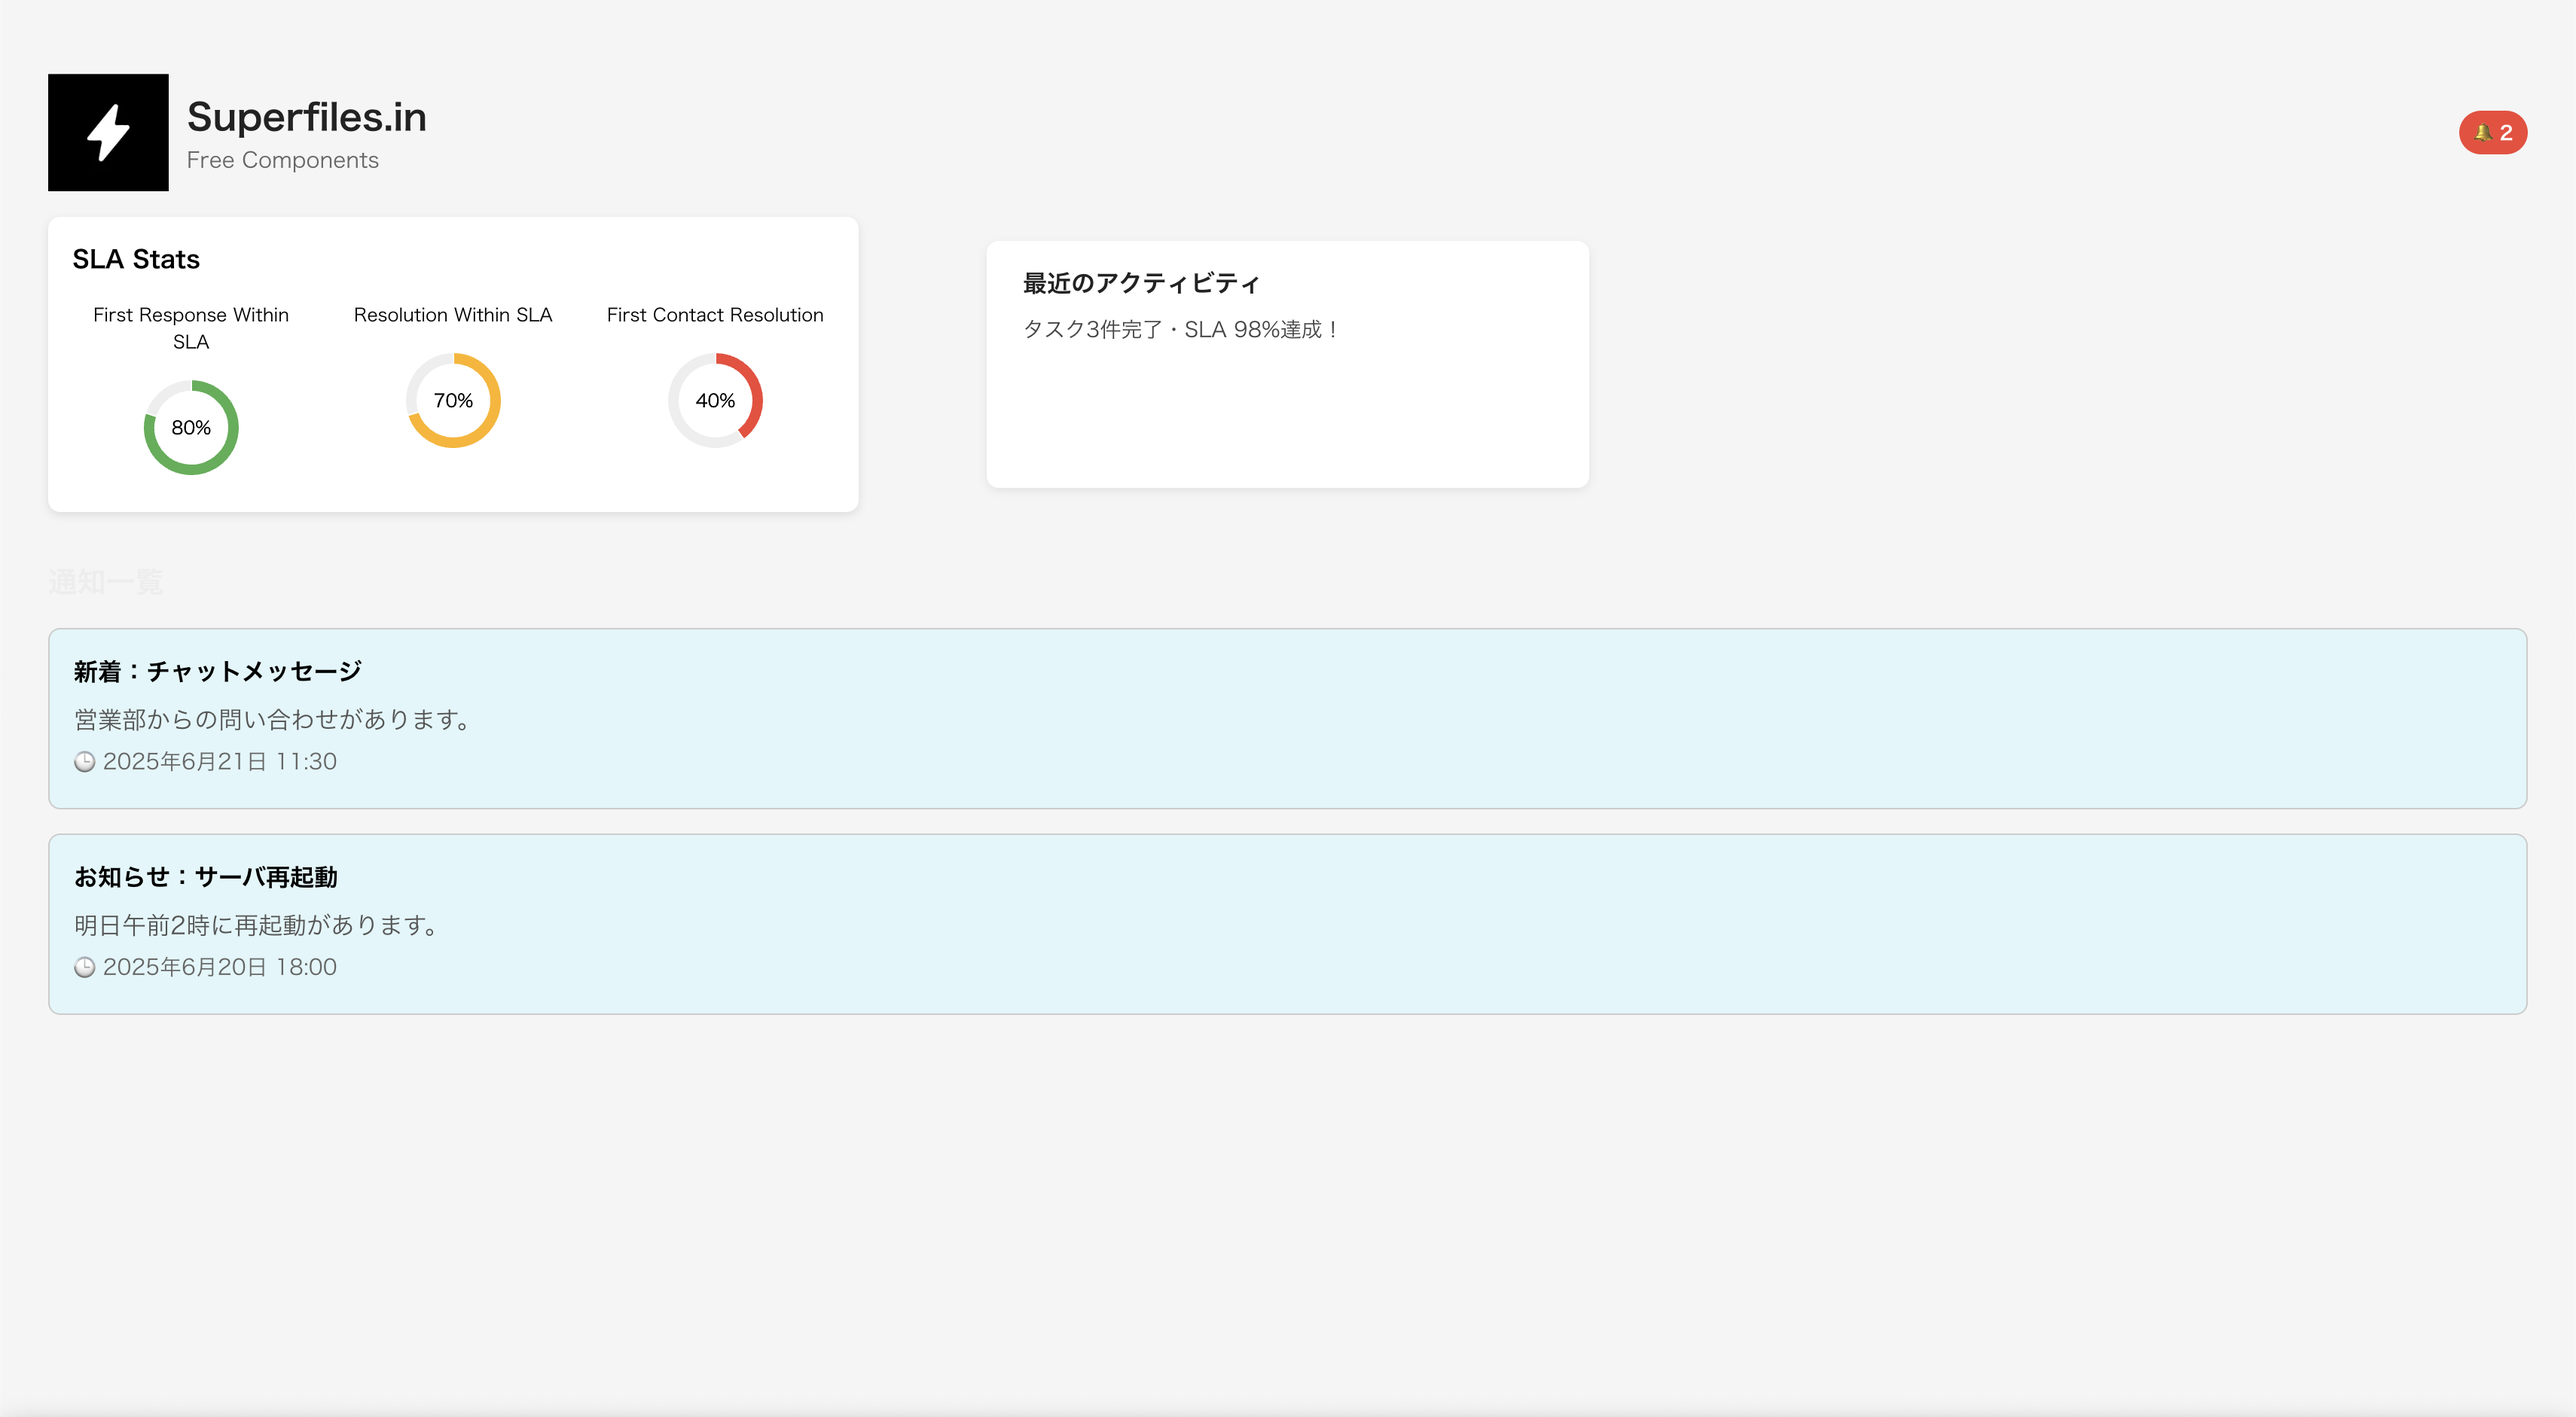
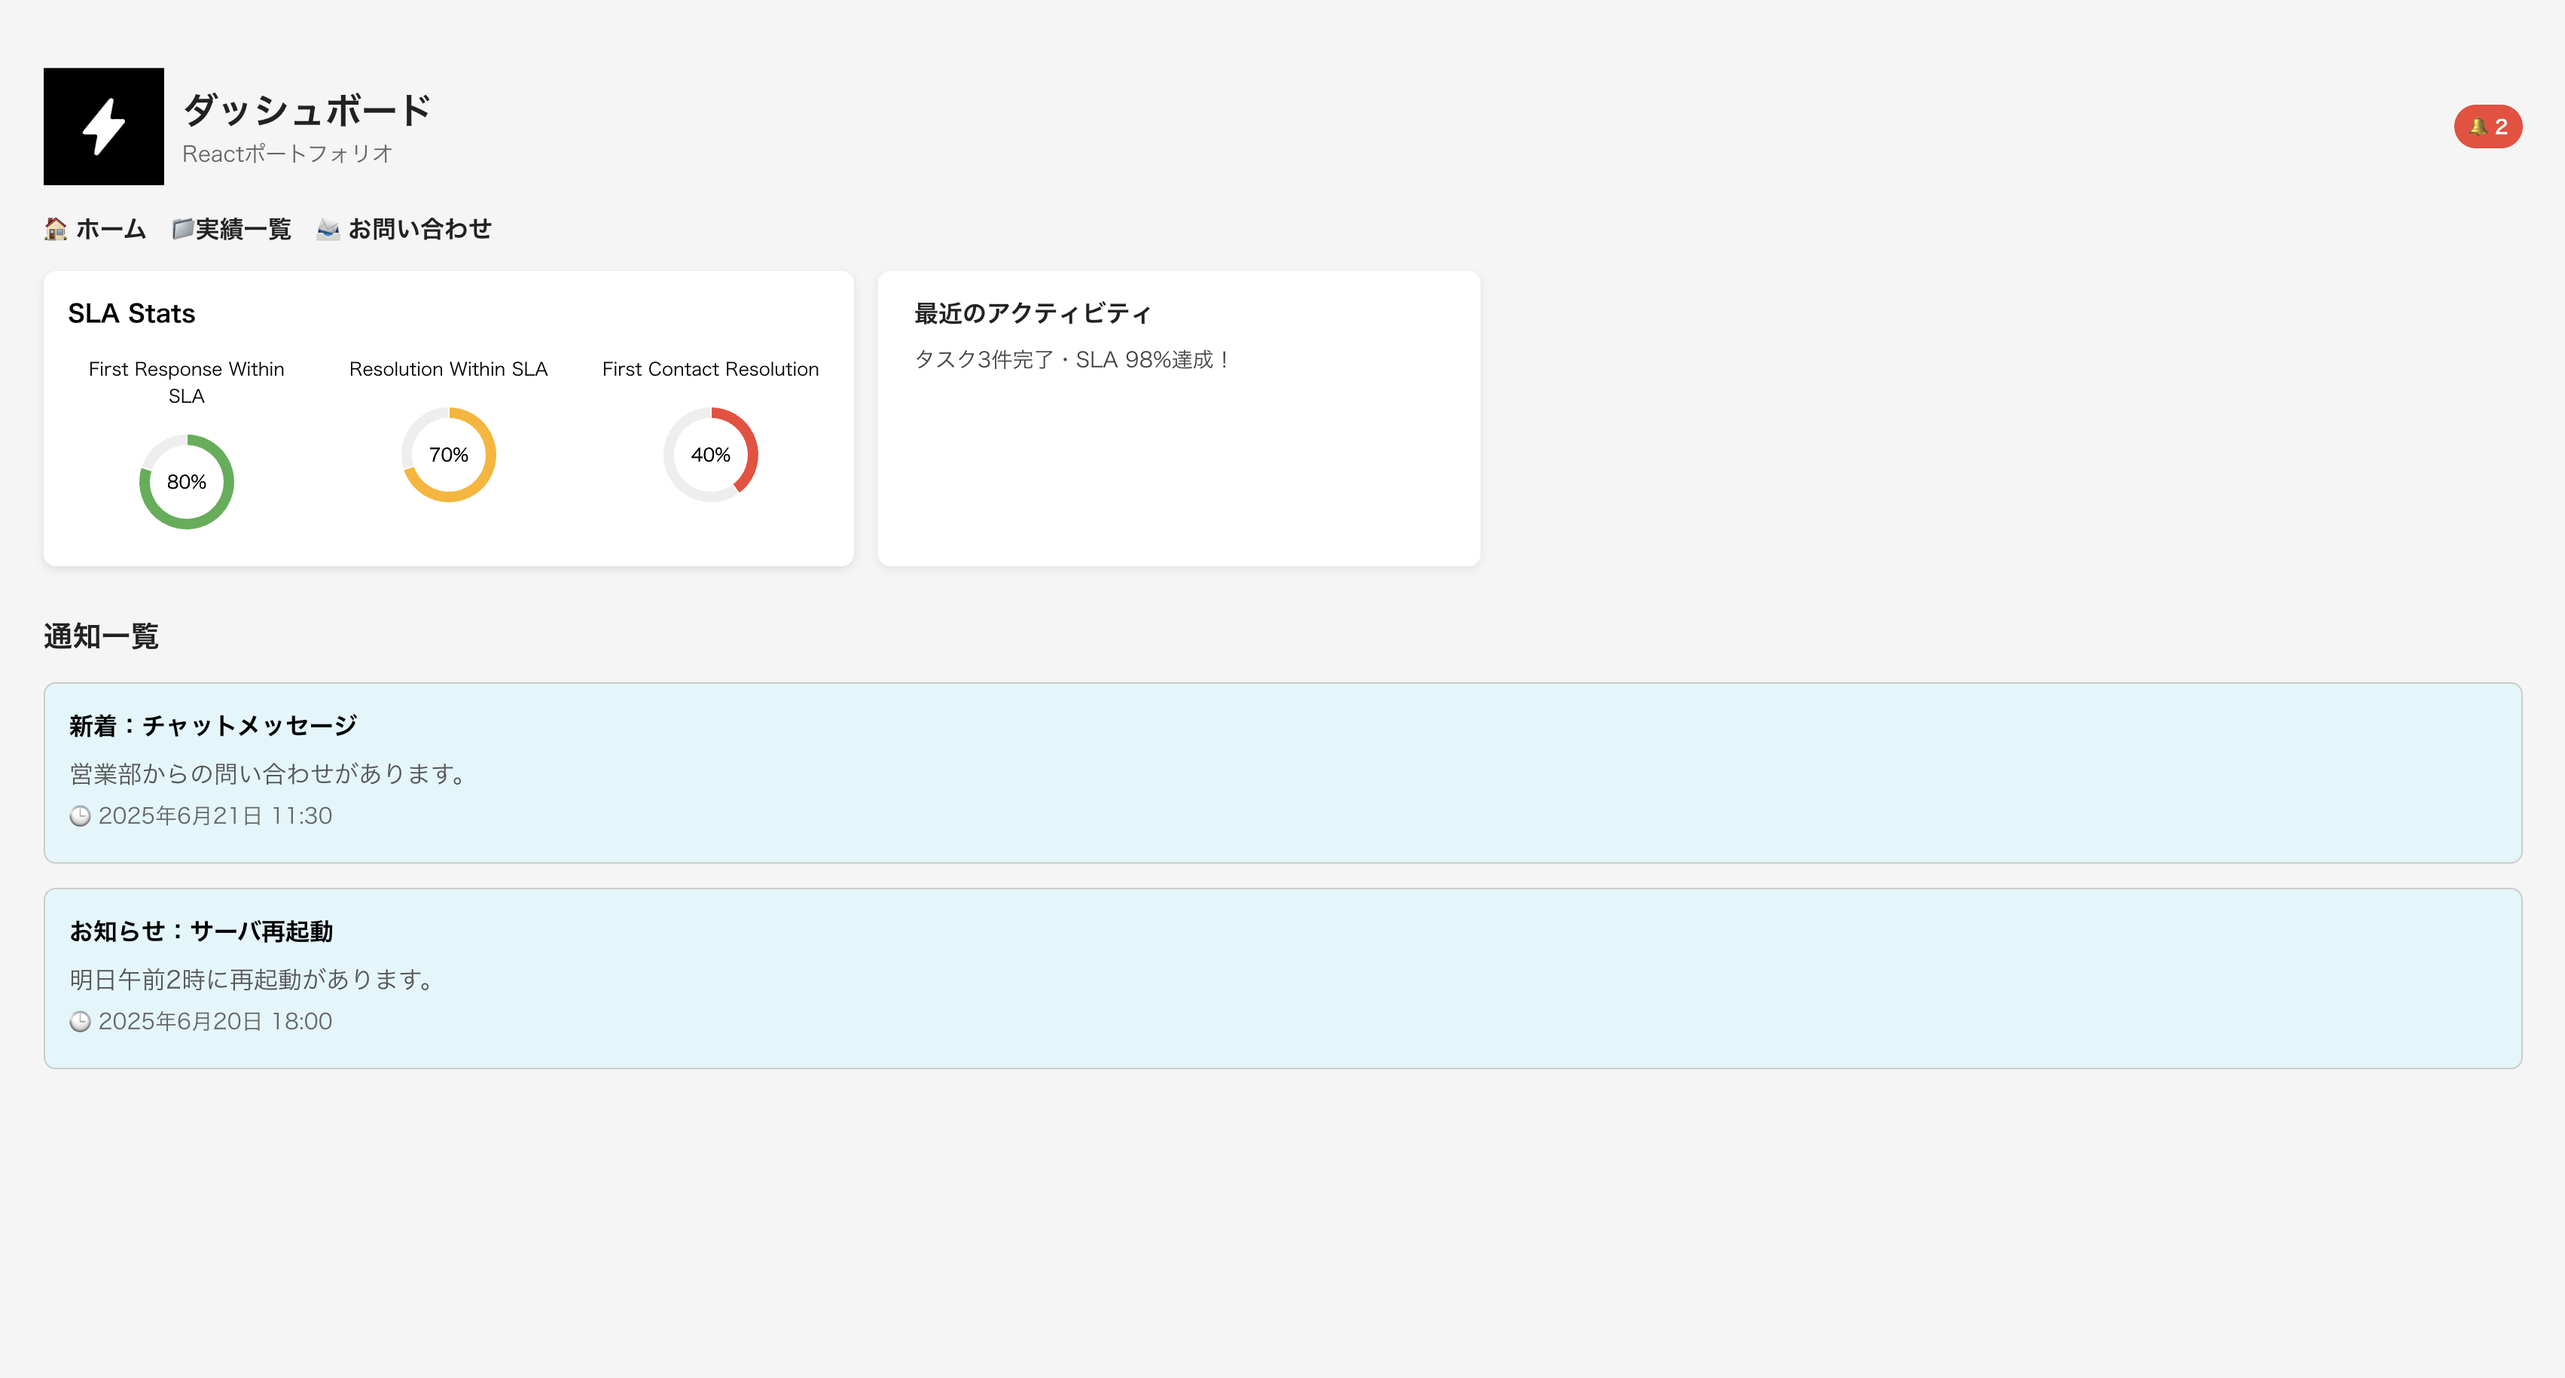
🌟 最終仕上げ！タイトル＆タイル修正、README整備完了

diff --git a/src/pages/index.tsx b/src/pages/index.tsx
@@ -67,7 +67,7 @@ export default function DashboardPage() {
 
     return (
         <main style={{ padding: '2rem', fontFamily: 'sans-serif' }}>
-        <Header title="Superfiles.in" subtitle="Free Components" unreadCount={unreadCount} />
+        <Header title="ダッシュボード" subtitle="Reactポートフォリオ" unreadCount={unreadCount} />
 
         <div className={styles.tileContainer}>
         <GraphTile stats={stats} />

diff --git a/src/components/InfoCard.module.css b/src/components/InfoCard.module.css
@@ -5,7 +5,6 @@
   box-shadow: 0 2px 6px rgba(0, 0, 0, 0.08);
   max-width: 400px;
   width: 100%;
-  margin: 1rem auto;
 }
 
 .title {
